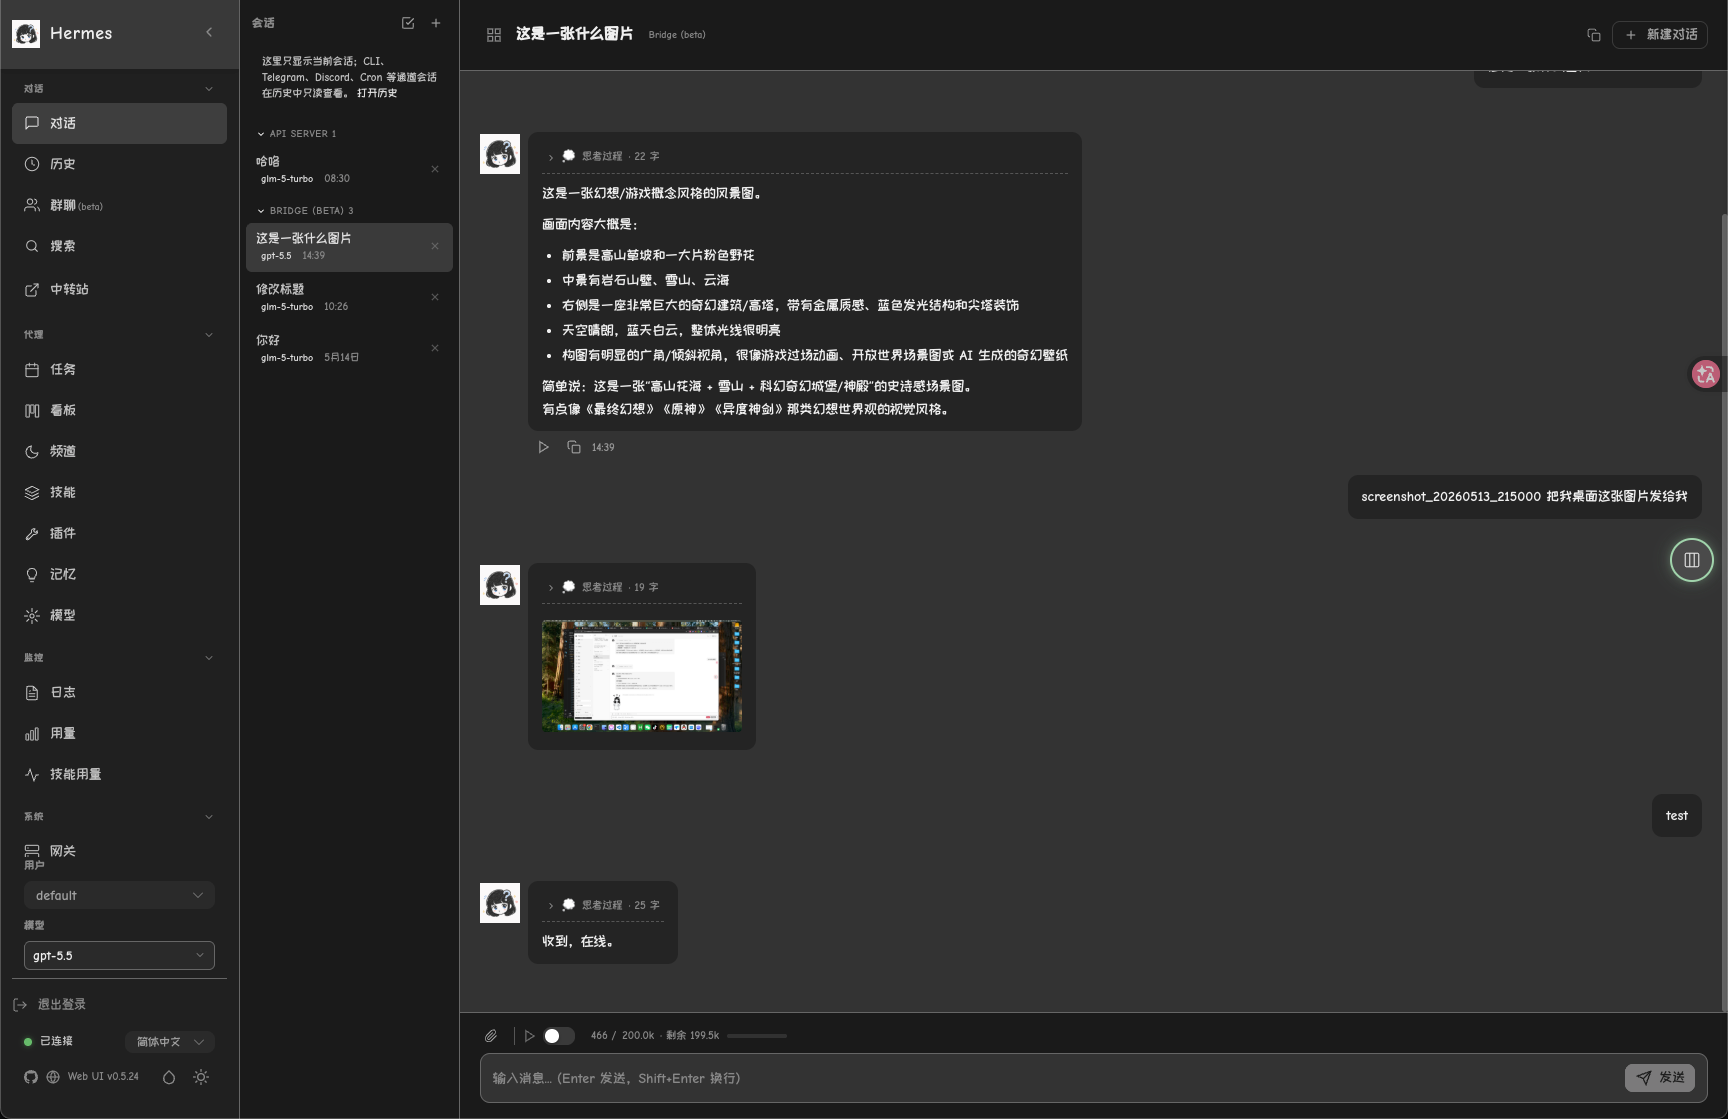
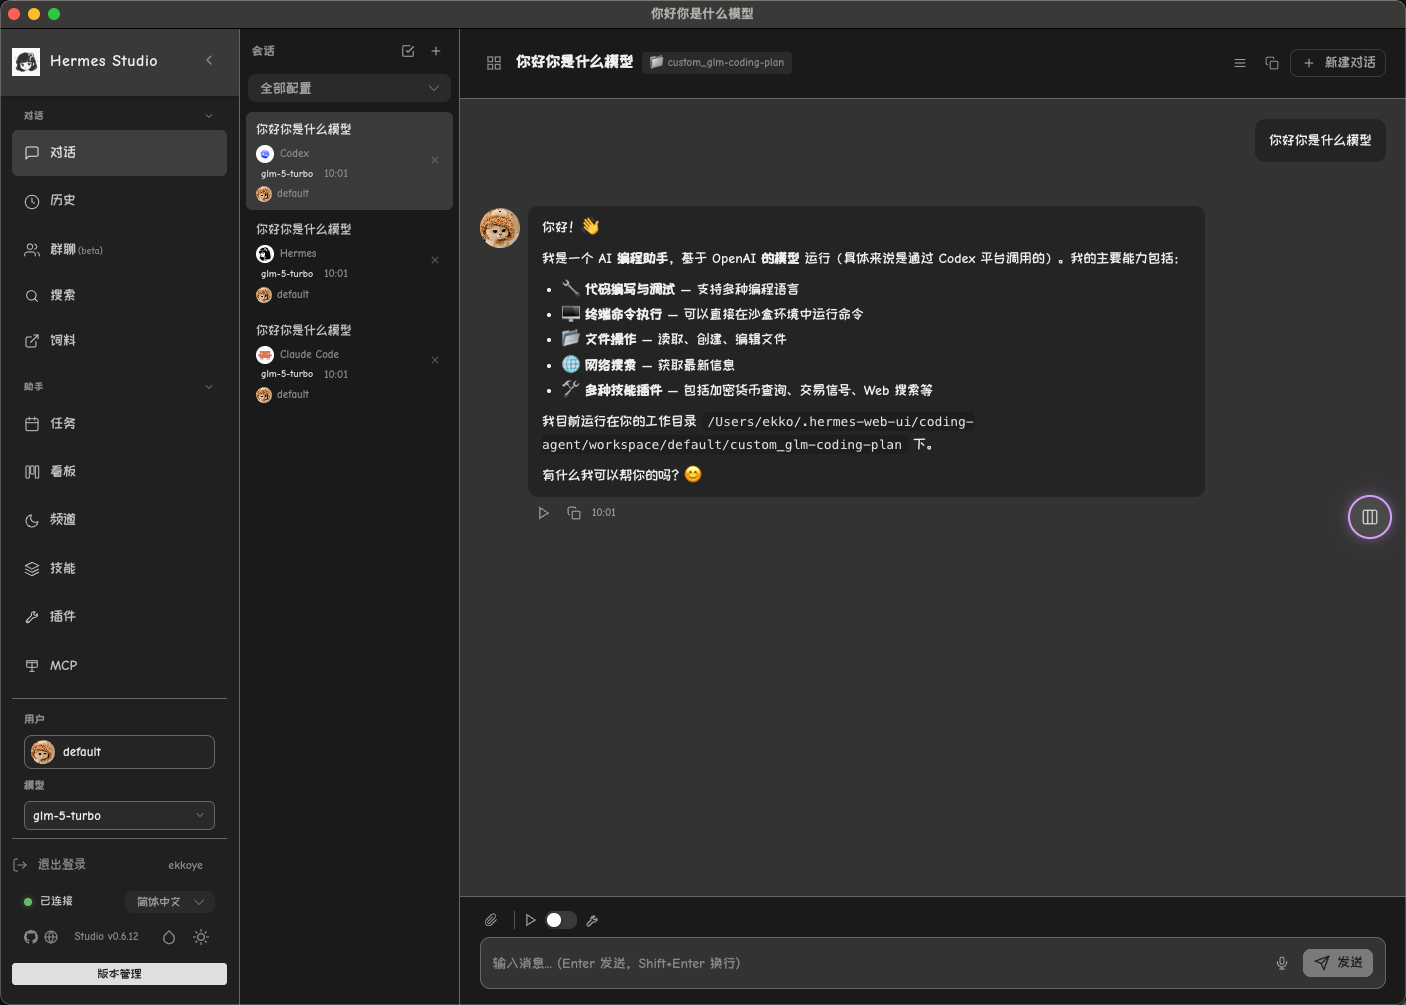
docs: refresh README product overview (#1463)
* docs: refresh README product overview

* docs: refresh README screenshots

diff --git a/README.md b/README.md
@@ -1,12 +1,12 @@
 <p align="center">
-  <strong>Hermes Web UI</strong>
+  <strong>Hermes Studio</strong>
   <a href="./README_zh.md">中文</a>
 </p>
 
 <p align="center">
-  A full-featured desktop app and web dashboard for <a href="https://github.com/NousResearch/hermes-agent">Hermes Agent</a>.<br/>
-  Manage AI chat sessions, monitor usage & costs, configure platform channels,<br/>
-  schedule cron jobs, browse skills — all from a clean, responsive web interface.
+  A desktop app, local runtime, and web console for <a href="https://github.com/NousResearch/hermes-agent">Hermes Agent</a>.<br/>
+  Chat with agents, manage models and profiles, connect platform channels,<br/>
+  automate jobs, inspect files, run coding agents, and keep everything local.
 </p>
 
 <p align="center">
@@ -35,9 +35,19 @@
   </a>
 </p>
 
-> 🎁 **[Atlas Cloud](https://www.atlascloud.ai/?utm_source=github&utm_medium=link&utm_campaign=hermes-web-ui)** is a full-modal, OpenAI-compatible AI inference platform (DeepSeek, Qwen, GLM, Kimi, MiniMax, …). Select **Atlas Cloud** from the provider panel and add your API key.
+> 🎁 **[Atlas Cloud](https://www.atlascloud.ai/?utm_source=github&utm_medium=link&utm_campaign=hermes-web-ui)** is a multimodal, OpenAI-compatible AI inference platform (DeepSeek, Qwen, GLM, Kimi, MiniMax, …). Select **Atlas Cloud** from the provider panel and add your API key.
 
 ---
+
+## Core Capabilities
+
+| Area | What Hermes Studio does |
+| --- | --- |
+| Agent chat | Runs Hermes Agent conversations with streaming responses, tool traces, file upload/download, and persistent local sessions. |
+| Local control plane | Manages profiles, providers, models, credentials, memory, skills, plugins, logs, and runtime settings from one dashboard. |
+| Automation | Configures platform channels, cron jobs, Kanban tasks, group-chat rooms, and MCP servers around the same Hermes profiles. |
+| Workspace tools | Provides a file browser, web terminal, voice input/output, coding-agent runners, device discovery, and performance views. |
+| Distribution | Ships as a desktop app for Windows/macOS/Linux, an npm CLI package, and a Docker image. |
 
 ## Features
 
@@ -90,6 +100,12 @@ Unified configuration for **8 platforms** in one page:
 - Trigger immediate execution
 - Cron expression quick presets
 
+### Kanban
+
+- Profile-aware Kanban board for planning and tracking agent work
+- Task creation, updates, and status movement from the dashboard
+- Shared with the same local Web UI state and authentication model
+
 ### Model Management
 
 - Auto-discover models from credential pool (`~/.hermes/auth.json`)
@@ -126,6 +142,12 @@ Unified configuration for **8 platforms** in one page:
 - SQLite message persistence
 - Mobile responsive with collapsible sidebar
 
+### Coding Agents
+
+- Launch and monitor local coding-agent sessions from the web dashboard
+- Dedicated proxy routes for Codex and Claude Code integrations
+- Stores agent output and reasoning metadata for later inspection
+
 ### Skills & Memory
 
 - Browse and search installed skills
@@ -137,6 +159,13 @@ Unified configuration for **8 platforms** in one page:
 - View agent / server / error logs
 - Filter by log level, log file, and keyword
 - Structured log parsing with HTTP access log highlighting
+
+### Admin & Runtime Management
+
+- Device and LAN peer views for local-network discovery and peer tooling
+- MCP manager for the managed `hermes-studio` MCP server and profile injection
+- Runtime version and version-preview tooling for testing newer builds in isolation
+- Performance monitor views for super administrators
 
 ### Authentication
 
@@ -191,6 +220,14 @@ hermes-web-ui reset-default-login
 - Real-time keyboard input and PTY output streaming via WebSocket
 - Window resize support
 
+### Desktop App & Updates
+
+- Native Electron shell for Windows, macOS, and Linux
+- Bundles the Web UI runtime and starts the local Hermes Studio server automatically
+- Uses Cloudflare download endpoints for desktop auto-update metadata and assets first
+- Falls back to GitHub Releases `latest` assets if the Cloudflare update feed is unavailable
+- Windows upgrades attempt to close an existing Hermes Studio process before replacing files
+
 ---
 
 ## Quick Start
@@ -209,6 +246,11 @@ runtime and stores Hermes Agent data in the native Hermes location:
 
 The desktop wrapper stores its own Web UI state separately in
 `~/.hermes-web-ui` unless `HERMES_WEB_UI_HOME` is set.
+
+Desktop auto-updates read the latest feed from
+`https://download.ekkolearnai.com/latest` first. If that endpoint is
+unavailable, the updater falls back to
+`https://github.com/EKKOLearnAI/hermes-web-ui/releases/latest/download`.
 
 ### npm
 
@@ -365,7 +407,7 @@ Browser → BFF (Koa, :8648) → Socket.IO /chat-run
 
 The frontend is designed with **multi-agent extensibility** — all Hermes-specific code is namespaced under `hermes/` directories (API, components, views, stores), making it straightforward to add new agent integrations alongside.
 
-The BFF layer handles Socket.IO chat streaming, the Hermes agent bridge, profile-aware file upload and path-based download (multi-backend: local/Docker/SSH/Singularity), session CRUD, account- and profile-scoped management, config/credential management, WeChat QR login, model discovery, skills/memory management, log reading, and static file serving.
+The BFF layer handles Socket.IO chat streaming, the Hermes agent bridge, profile-aware file upload and path-based download (multi-backend: local/Docker/SSH/Singularity), session CRUD, account- and profile-scoped management, config/credential management, WeChat QR login, model discovery, skills/memory/plugin management, TTS/STT, coding-agent proxies, MCP/runtime management, log reading, and static file serving.
 
 ## Tech Stack
 

diff --git a/README_zh.md b/README_zh.md
@@ -1,12 +1,12 @@
 <p align="center">
-  <strong>Hermes Web UI</strong>
+  <strong>Hermes Studio</strong>
   <a href="./README.md">English</a>
 </p>
 
 <p align="center">
-  <a href="https://github.com/NousResearch/hermes-agent">Hermes Agent</a> 的全功能桌面应用和 Web 管理面板。<br/>
-  管理 AI 聊天会话、监控用量与成本、配置平台渠道、<br/>
-  管理定时任务、浏览技能 —— 全部在一个简洁响应式的 Web 界面中完成。
+  面向 <a href="https://github.com/NousResearch/hermes-agent">Hermes Agent</a> 的桌面应用、本地运行时和 Web 控制台。<br/>
+  聊天、模型与 Profile 管理、平台渠道接入、任务自动化、<br/>
+  文件查看、Coding Agent 和本地运行环境都在一个界面中完成。
 </p>
 
 <p align="center">
@@ -43,9 +43,19 @@
   </a>
 </p>
 
-> 🎁 **[Atlas Cloud](https://www.atlascloud.ai/?utm_source=github&utm_medium=link&utm_campaign=hermes-web-ui)** 是全模态、OpenAI 兼容的 AI 推理平台（DeepSeek、Qwen、GLM、Kimi、MiniMax 等）。在 Provider 面板选择 **Atlas Cloud** 并填入 API Key 即可使用。
+> 🎁 **[Atlas Cloud](https://www.atlascloud.ai/?utm_source=github&utm_medium=link&utm_campaign=hermes-web-ui)** 是多模态、OpenAI 兼容的 AI 推理平台（DeepSeek、Qwen、GLM、Kimi、MiniMax 等）。在 Provider 面板选择 **Atlas Cloud** 并填入 API Key 即可使用。
 
 ---
+
+## 核心能力
+
+| 模块 | Hermes Studio 能做什么 |
+|---|---|
+| Agent 聊天 | 运行 Hermes Agent 对话，支持流式回复、工具调用轨迹、文件上传下载和本地持久化会话。 |
+| 本地控制台 | 在一个仪表盘中管理 Profile、Provider、模型、凭证、记忆、技能、插件、日志和运行时设置。 |
+| 自动化 | 围绕同一套 Hermes Profile 配置平台渠道、Cron 任务、Kanban 任务、群聊房间和 MCP Server。 |
+| 工作区工具 | 提供文件浏览器、Web 终端、语音输入输出、Coding Agent、设备发现和性能视图。 |
+| 分发形态 | 支持 Windows/macOS/Linux 桌面应用、npm CLI 包和 Docker 镜像。 |
 
 ## 功能特性
 
@@ -98,6 +108,12 @@
 - 立即触发执行
 - Cron 表达式快捷预设
 
+### Kanban
+
+- 按 Profile 管理的 Kanban 看板，用于规划和跟踪 Agent 工作
+- 可在仪表盘中创建任务、更新任务并移动状态
+- 复用 Web UI 本地状态和认证体系
+
 ### 模型管理
 
 - 从凭证池自动发现模型（`~/.hermes/auth.json`）
@@ -134,6 +150,12 @@
 - SQLite 消息持久化
 - 移动端响应式布局，可折叠侧边栏
 
+### Coding Agents
+
+- 在 Web 仪表盘中启动和监控本地 Coding Agent 会话
+- 为 Codex 和 Claude Code 集成提供独立代理路由
+- 持久化 Agent 输出和 reasoning 元数据，便于后续查看
+
 ### 技能与记忆
 
 - 浏览和搜索已安装的技能
@@ -145,6 +167,13 @@
 - 查看 Agent / Server / Error 日志
 - 按日志级别、日志文件和关键词过滤
 - 结构化日志解析，HTTP 访问日志高亮
+
+### 管理与运行时
+
+- 设备和局域网 Peer 页面，用于本地网络发现和 Peer 工具能力
+- MCP 管理器，用于托管的 `hermes-studio` MCP Server 和 Profile 自动注入
+- Runtime Version 和 Version Preview 工具，用于隔离测试新版本
+- 面向超级管理员的性能监控视图
 
 ### 认证
 
@@ -199,6 +228,14 @@ hermes-web-ui reset-default-login
 - 通过 WebSocket 实时传输键盘输入和 PTY 输出
 - 支持窗口大小调整
 
+### 桌面应用与自动更新
+
+- Windows、macOS 和 Linux 原生 Electron 桌面壳
+- 内置 Web UI 运行时，并自动启动本地 Hermes Studio 服务
+- 桌面自动更新优先使用 Cloudflare 下载端点获取更新元数据和安装包
+- 如果 Cloudflare 更新源不可用，会回退到 GitHub Releases `latest` 资源
+- Windows 升级时会先尝试关闭已有 Hermes Studio 进程，再替换文件
+
 ---
 
 ## 快速开始
@@ -216,6 +253,10 @@ hermes-web-ui reset-default-login
 
 桌面壳自身的 Web UI 状态会单独保存到 `~/.hermes-web-ui`，除非设置了
 `HERMES_WEB_UI_HOME`。
+
+桌面自动更新会优先读取 `https://download.ekkolearnai.com/latest`。
+如果该端点不可用，更新器会回退到
+`https://github.com/EKKOLearnAI/hermes-web-ui/releases/latest/download`。
 
 ### npm 安装
 
@@ -371,7 +412,7 @@ npm run build   # 构建输出到 dist/
 
 前端采用 **多 Agent 可扩展架构** — 所有 Hermes 相关代码都按命名空间组织在 `hermes/` 目录下（API、组件、视图、Store），可以方便地并行接入新的 Agent。
 
-BFF 层负责：Socket.IO 聊天流式推送、Hermes agent bridge、按 Profile 隔离的上传和按路径解析的下载（多 Backend 支持：local/Docker/SSH/Singularity）、会话 CRUD、分账户分 Profile 管理、配置/凭证管理、微信扫码登录、模型发现、技能/记忆管理、日志读取和静态文件服务。
+BFF 层负责：Socket.IO 聊天流式推送、Hermes agent bridge、按 Profile 隔离的上传和按路径解析的下载（多 Backend 支持：local/Docker/SSH/Singularity）、会话 CRUD、分账户分 Profile 管理、配置/凭证管理、微信扫码登录、模型发现、技能/记忆/插件管理、TTS/STT、Coding Agent 代理、MCP/Runtime 管理、日志读取和静态文件服务。
 
 ## 技术栈
 
